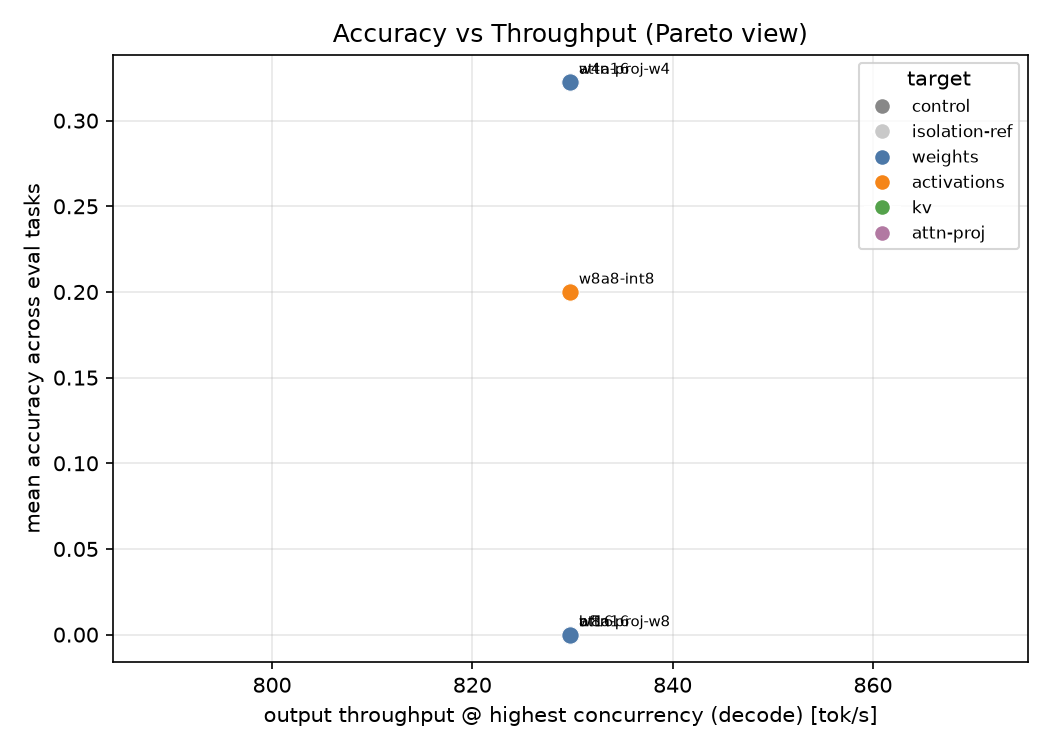
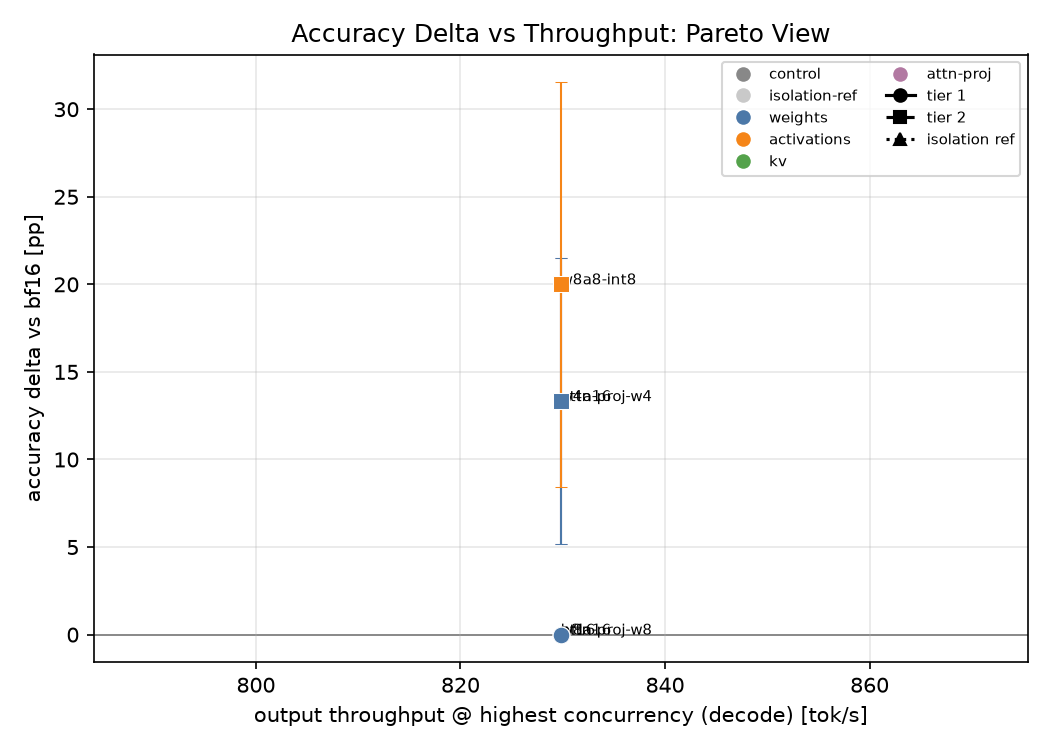
plots: per-tier styles, deltas, speedups, per-workload; plan fixes
Plots: color=target, linestyle/marker=tier so every config is visually
unique; accuracy plotted as delta vs bf16 (pp) with stderr error bars;
speedup = throughput/bf16 throughput per workload; split into
throughput_vs_conc_{decode,prefill,longctx} + speedup_{...} +
longctx_kv_capacity bar chart; adjustText label repel (degrades
gracefully if unavailable); no em dashes in titles/labels.

Plan fixes: checkpoint-size sanity check corrected (w4a16 < w8a16 < bf16
overall; ~1/4 only for quantized linear-layer bytes, embeddings/lm_head
stay unquantized); max_model_len bumped 16384 -> 20480 everywhere so
RULER's 16384-token prompt + generation fits; full profile RULER capped
at 100 samples/subtask/length to fit the time budget.

diff --git a/scripts/plot.py b/scripts/plot.py
@@ -1,12 +1,16 @@
 #!/usr/bin/env python3
 """Read results/master.csv and produce:
-  - results/master_table.md (re-render, for convenience)
-  - results/pareto.png            accuracy vs throughput, colored by target
-  - results/throughput_vs_conc.png  throughput vs concurrency, one line per config
+  - results/pareto.png                        accuracy delta (vs bf16) vs throughput
+  - results/throughput_vs_conc_<workload>.png  throughput vs concurrency, one per workload
+  - results/speedup_<workload>.png             throughput / bf16 throughput, one per workload
+  - results/longctx_kv_capacity.png            GPU KV cache tokens per config (longctx only)
+
+Every config gets a unique (color, linestyle, marker) combo: color = target,
+linestyle/marker = tier (tier1 = solid/circle, tier2 = dashed/square,
+isolation-ref = dotted/triangle).
 
 Usage:
     python scripts/plot.py --model qwen2.5-0.5b
-    python scripts/plot.py --model qwen2.5-0.5b --workload decode
 """
 from __future__ import annotations
 
@@ -19,7 +23,14 @@ matplotlib.use("Agg")
 import matplotlib.pyplot as plt
 import pandas as pd
 
+try:
+    from adjustText import adjust_text
+except ImportError:  # pragma: no cover - degrade gracefully if not installed
+    adjust_text = None
+
 from common import RESULTS_DIR
+
+WORKLOADS = ["decode", "prefill", "longctx"]
 
 TARGET_COLORS = {
     "control": "#888888",
@@ -44,12 +55,45 @@ def load_master(model_name: str) -> pd.DataFrame:
     return df
 
 
-def mean_accuracy(row: pd.Series) -> float | None:
-    acc_cols = [c for c in row.index if c.startswith("eval_") and (
-        "acc" in c or "score" in c) and pd.notna(row[c])]
-    if not acc_cols:
-        return None
-    return sum(row[c] for c in acc_cols) / len(acc_cols)
+def style_of(row: pd.Series) -> dict:
+    """color = target, linestyle+marker = tier, so every config is visually unique."""
+    color = TARGET_COLORS.get(row["target"], "#333333")
+    if bool(row.get("is_isolation_ref")):
+        return dict(color=color, linestyle=":", marker="^")
+    tier = row.get("tier")
+    if pd.isna(tier) or tier <= 1:
+        return dict(color=color, linestyle="-", marker="o")
+    return dict(color=color, linestyle="--", marker="s")
+
+
+def is_metric_col(col: str) -> bool:
+    return col.startswith("eval_") and "_stderr_" not in col and not col.endswith("_sample_len")
+
+
+def stderr_col_of(value_col: str) -> str:
+    """eval_<task>_<metric>_<agg> -> eval_<task>_<metric>_stderr_<agg>."""
+    base, _, agg = value_col.rpartition("_")
+    return f"{base}_stderr_{agg}"
+
+
+def accuracy_delta_pp(row: pd.Series, bf16_row: pd.Series, metric_cols: list[str]) -> tuple[float, float] | tuple[None, None]:
+    """Mean accuracy delta vs bf16 in percentage points, with combined stderr
+    (independent-metric assumption: var of the mean = sum(var_i) / n^2)."""
+    deltas, variances = [], []
+    for col in metric_cols:
+        if col not in row.index or pd.isna(row[col]) or pd.isna(bf16_row.get(col)):
+            continue
+        deltas.append(row[col] - bf16_row[col])
+        se_col = stderr_col_of(col)
+        se_a = row.get(se_col, 0.0) or 0.0
+        se_b = bf16_row.get(se_col, 0.0) or 0.0
+        variances.append((se_a if pd.notna(se_a) else 0.0) ** 2 + (se_b if pd.notna(se_b) else 0.0) ** 2)
+    if not deltas:
+        return None, None
+    n = len(deltas)
+    mean_delta = sum(deltas) / n * 100
+    combined_se = (sum(variances) ** 0.5) / n * 100
+    return mean_delta, combined_se
 
 
 def representative_throughput(row: pd.Series, workload: str) -> float | None:
@@ -68,23 +112,44 @@ def representative_throughput(row: pd.Series, workload: str) -> float | None:
     return row[best_col]
 
 
-def plot_pareto(df: pd.DataFrame, out_path: Path, workload: str) -> None:
-    fig, ax = plt.subplots(figsize=(7, 5))
-    for _, row in df.iterrows():
-        acc = mean_accuracy(row)
-        tput = representative_throughput(row, workload)
-        if acc is None or tput is None:
-            continue
-        color = TARGET_COLORS.get(row["target"], "#333333")
-        ax.scatter(tput, acc, color=color, s=70, edgecolor="white", linewidth=0.5, zorder=3)
-        ax.annotate(row["config_id"], (tput, acc), fontsize=7, xytext=(4, 4), textcoords="offset points")
+def legend_handles() -> list:
+    target_handles = [plt.Line2D([0], [0], marker="o", color="w", markerfacecolor=c, markersize=8, label=t)
+                       for t, c in TARGET_COLORS.items()]
+    tier_handles = [
+        plt.Line2D([0], [0], color="black", linestyle="-", marker="o", label="tier 1"),
+        plt.Line2D([0], [0], color="black", linestyle="--", marker="s", label="tier 2"),
+        plt.Line2D([0], [0], color="black", linestyle=":", marker="^", label="isolation ref"),
+    ]
+    return target_handles + tier_handles
 
-    handles = [plt.Line2D([0], [0], marker="o", color="w", markerfacecolor=c, markersize=8, label=t)
-               for t, c in TARGET_COLORS.items()]
-    ax.legend(handles=handles, title="target", fontsize=8, loc="best")
+
+def plot_pareto(df: pd.DataFrame, out_path: Path, workload: str) -> None:
+    if "bf16" not in df["config_id"].values:
+        print("[plot] skip pareto.png: no bf16 row to compute accuracy delta against")
+        return
+    bf16_row = df[df["config_id"] == "bf16"].iloc[0]
+    metric_cols = [c for c in df.columns if is_metric_col(c)]
+
+    fig, ax = plt.subplots(figsize=(7, 5))
+    texts = []
+    for _, row in df.iterrows():
+        delta, err = accuracy_delta_pp(row, bf16_row, metric_cols)
+        tput = representative_throughput(row, workload)
+        if delta is None or tput is None:
+            continue
+        style = style_of(row)
+        ax.errorbar(tput, delta, yerr=err, fmt=style["marker"], color=style["color"],
+                    ecolor=style["color"], elinewidth=1, capsize=3, markersize=8,
+                    markeredgecolor="white", markeredgewidth=0.5, zorder=3)
+        texts.append(ax.annotate(row["config_id"], (tput, delta), fontsize=7))
+
+    ax.axhline(0, color="black", linewidth=0.8, alpha=0.6, zorder=1)
+    if texts and adjust_text is not None:
+        adjust_text(texts, ax=ax, arrowprops=dict(arrowstyle="-", color="gray", lw=0.5))
+    ax.legend(handles=legend_handles(), fontsize=7, ncol=2, loc="best")
     ax.set_xlabel(f"output throughput @ highest concurrency ({workload}) [tok/s]")
-    ax.set_ylabel("mean accuracy across eval tasks")
-    ax.set_title("Accuracy vs Throughput (Pareto view)")
+    ax.set_ylabel("accuracy delta vs bf16 [pp]")
+    ax.set_title("Accuracy Delta vs Throughput: Pareto View")
     ax.grid(alpha=0.3)
     fig.tight_layout()
     fig.savefig(out_path, dpi=150)
@@ -94,6 +159,7 @@ def plot_pareto(df: pd.DataFrame, out_path: Path, workload: str) -> None:
 
 def plot_throughput_vs_concurrency(df: pd.DataFrame, out_path: Path, workload: str) -> None:
     fig, ax = plt.subplots(figsize=(7, 5))
+    any_points = False
     for _, row in df.iterrows():
         points = []
         for col in row.index:
@@ -105,15 +171,89 @@ def plot_throughput_vs_concurrency(df: pd.DataFrame, out_path: Path, workload: s
             continue
         points.sort()
         xs, ys = zip(*points)
-        color = TARGET_COLORS.get(row["target"], "#333333")
-        ax.plot(xs, ys, marker="o", label=row["config_id"], color=color)
+        style = style_of(row)
+        ax.plot(xs, ys, marker=style["marker"], linestyle=style["linestyle"], color=style["color"],
+                label=row["config_id"])
+        any_points = True
+
+    if not any_points:
+        print(f"[plot] skip {out_path.name}: no bench data for workload={workload}")
+        plt.close(fig)
+        return
 
     ax.set_xscale("log", base=2)
     ax.set_xlabel("concurrency")
     ax.set_ylabel("output throughput [tok/s]")
-    ax.set_title(f"Throughput vs Concurrency — {workload}")
+    ax.set_title(f"Throughput vs Concurrency: {workload}")
     ax.legend(fontsize=7, ncol=2)
     ax.grid(alpha=0.3)
+    fig.tight_layout()
+    fig.savefig(out_path, dpi=150)
+    plt.close(fig)
+    print(f"[plot] wrote {out_path}")
+
+
+def plot_speedup(df: pd.DataFrame, out_path: Path, workload: str) -> None:
+    if "bf16" not in df["config_id"].values:
+        print(f"[plot] skip {out_path.name}: no bf16 row to compute speedup against")
+        return
+    bf16_row = df[df["config_id"] == "bf16"].iloc[0]
+
+    fig, ax = plt.subplots(figsize=(7, 5))
+    any_points = False
+    for _, row in df.iterrows():
+        points = []
+        for col in row.index:
+            m = BENCH_COL_RE.match(col)
+            if not (m and m.group("workload") == workload and m.group("metric") == "output_throughput"
+                    and pd.notna(row[col])):
+                continue
+            bf16_val = bf16_row.get(col)
+            if bf16_val is None or pd.isna(bf16_val) or bf16_val == 0:
+                continue
+            points.append((int(m.group("concurrency")), row[col] / bf16_val))
+        if not points:
+            continue
+        points.sort()
+        xs, ys = zip(*points)
+        style = style_of(row)
+        ax.plot(xs, ys, marker=style["marker"], linestyle=style["linestyle"], color=style["color"],
+                label=row["config_id"])
+        any_points = True
+
+    if not any_points:
+        print(f"[plot] skip {out_path.name}: no bench data for workload={workload}")
+        plt.close(fig)
+        return
+
+    ax.axhline(1.0, color="black", linewidth=0.8, alpha=0.6, zorder=1)
+    ax.set_xscale("log", base=2)
+    ax.set_xlabel("concurrency")
+    ax.set_ylabel("speedup vs bf16 [output throughput ratio]")
+    ax.set_title(f"Speedup vs Concurrency: {workload}")
+    ax.legend(fontsize=7, ncol=2)
+    ax.grid(alpha=0.3)
+    fig.tight_layout()
+    fig.savefig(out_path, dpi=150)
+    plt.close(fig)
+    print(f"[plot] wrote {out_path}")
+
+
+def plot_kv_capacity(df: pd.DataFrame, out_path: Path) -> None:
+    sub = df[df["kv_cache_tokens"].notna()].copy()
+    if sub.empty:
+        print(f"[plot] skip {out_path.name}: no kv_cache_tokens data")
+        return
+    sub = sub.sort_values("kv_cache_tokens")
+    colors = [style_of(row)["color"] for _, row in sub.iterrows()]
+
+    fig, ax = plt.subplots(figsize=(7, 5))
+    ax.bar(sub["config_id"], sub["kv_cache_tokens"], color=colors, edgecolor="white")
+    ax.set_xlabel("config")
+    ax.set_ylabel("GPU KV cache capacity [tokens]")
+    ax.set_title("KV Cache Capacity: longctx")
+    ax.tick_params(axis="x", rotation=45)
+    ax.grid(alpha=0.3, axis="y")
     fig.tight_layout()
     fig.savefig(out_path, dpi=150)
     plt.close(fig)
@@ -123,13 +263,19 @@ def plot_throughput_vs_concurrency(df: pd.DataFrame, out_path: Path, workload: s
 def main():
     ap = argparse.ArgumentParser()
     ap.add_argument("--model", required=True)
-    ap.add_argument("--workload", default="decode", choices=["decode", "prefill", "longctx"],
-                     help="workload used for the Pareto x-axis and throughput-vs-concurrency chart")
+    ap.add_argument("--workload", default="decode", choices=WORKLOADS,
+                     help="workload used for the Pareto plot x-axis")
     args = ap.parse_args()
 
     df = load_master(args.model)
+
     plot_pareto(df, RESULTS_DIR / "pareto.png", args.workload)
-    plot_throughput_vs_concurrency(df, RESULTS_DIR / "throughput_vs_conc.png", args.workload)
+
+    for workload in WORKLOADS:
+        plot_throughput_vs_concurrency(df, RESULTS_DIR / f"throughput_vs_conc_{workload}.png", workload)
+        plot_speedup(df, RESULTS_DIR / f"speedup_{workload}.png", workload)
+
+    plot_kv_capacity(df, RESULTS_DIR / "longctx_kv_capacity.png")
 
 
 if __name__ == "__main__":

diff --git a/scripts/eval.py b/scripts/eval.py
@@ -102,7 +102,7 @@ def main():
 
     eval_cfg = profile["eval"]
     tasks = [t for t in eval_cfg["tasks"] if t != "ruler"]
-    max_model_len = profile.get("server", {}).get("max_model_len", 16384)
+    max_model_len = profile.get("server", {}).get("max_model_len", 20480)
 
     print(f"[eval] {args.model}/{args.config} profile={args.profile} "
           f"backend={eval_cfg['backend']} limit={eval_cfg['limit']} tasks={tasks}")
@@ -114,9 +114,10 @@ def main():
         results = run_vllm_backend(checkpoint_dir, tasks, eval_cfg["limit"], eval_cfg["num_fewshot"], max_model_len)
 
     if "ruler" in eval_cfg["tasks"]:
+        ruler_limit = eval_cfg.get("ruler_limit", eval_cfg["limit"])
         ruler_results = run_ruler(
             checkpoint_dir, eval_cfg["backend"], eval_cfg.get("ruler_lengths", [4096]),
-            eval_cfg["limit"], max_model_len,
+            ruler_limit, max_model_len,
         )
         results.update(ruler_results)
 
